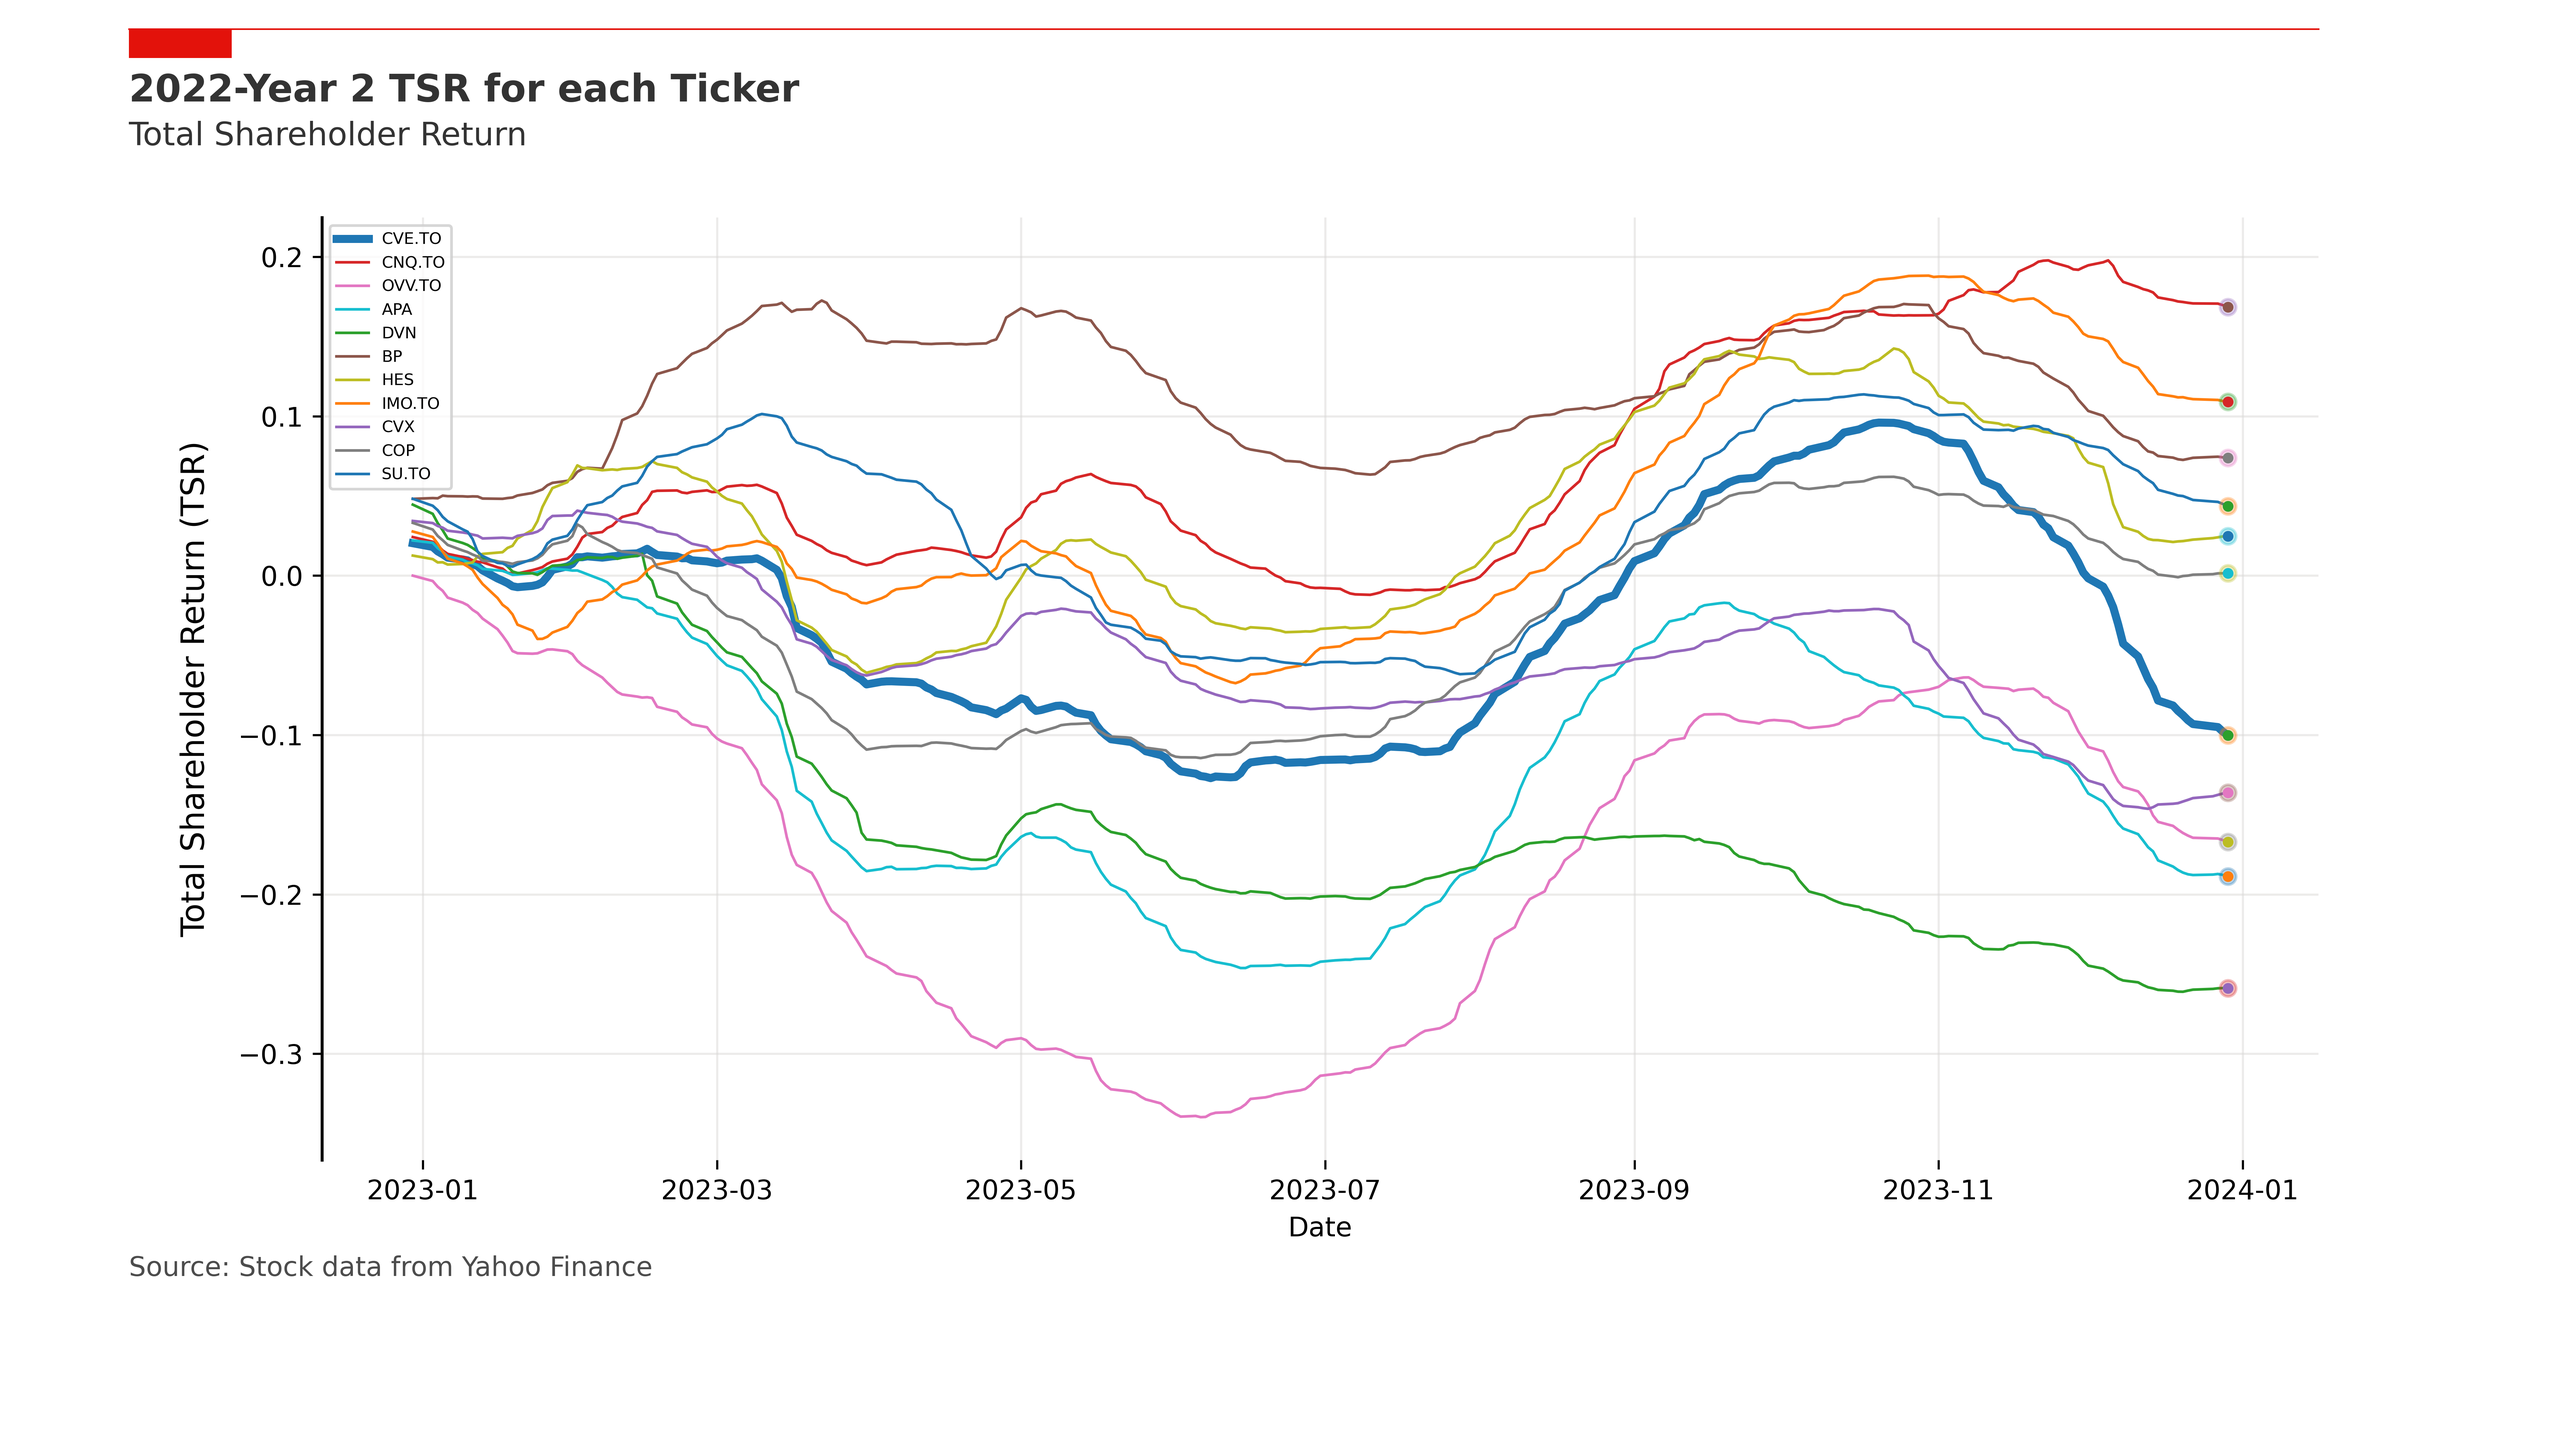
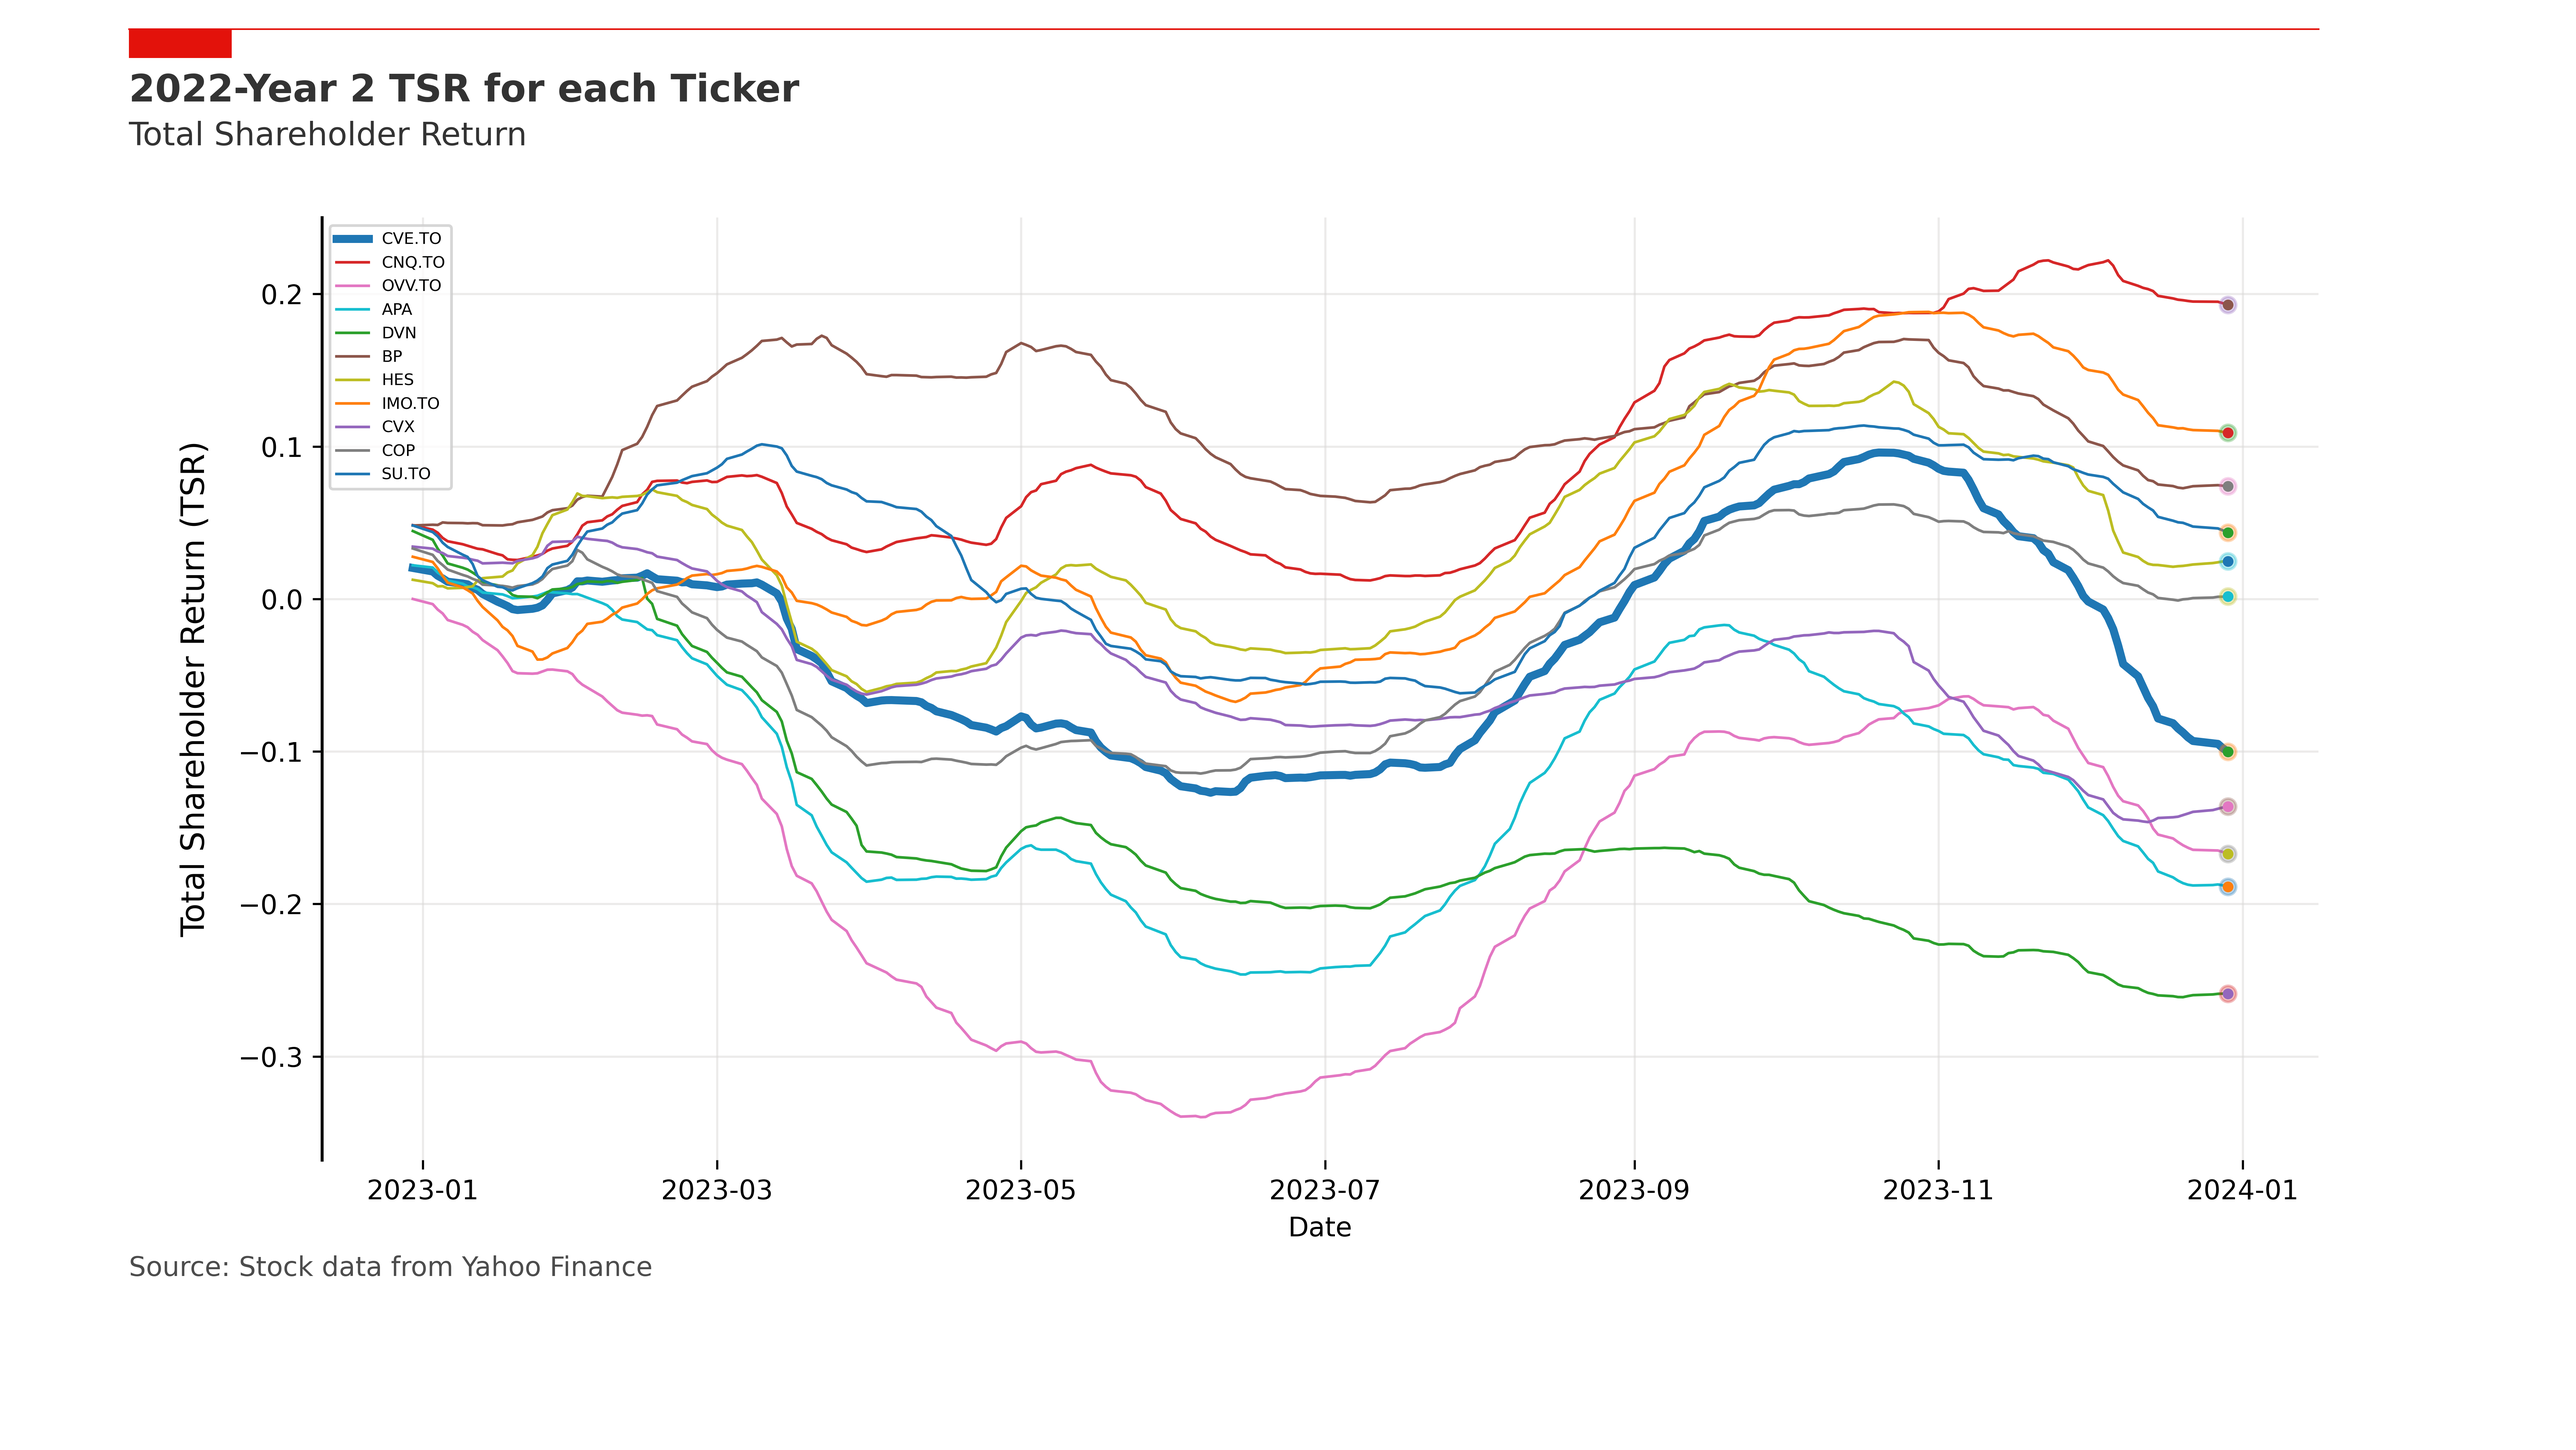
Modified to account for stock splits

diff --git a/refresh-data.py b/refresh-data.py
@@ -40,8 +40,9 @@ def load_data(tickers):
     for ticker in tickers:
         # Load ticker data from file if it exists
         if not os.path.exists('data/' + ticker + '.csv'):
-            # data = yf.Ticker(ticker)
-            data = yf.download(ticker, '2020-01-01', datetime.today(), progress=False)
+
+            data = yf.download(ticker, '2020-01-01', datetime.today(), progress=False,
+                               auto_adjust=False, back_adjust=False)
             data['Ticker'] = ticker
 
             # Calculate the typical price
